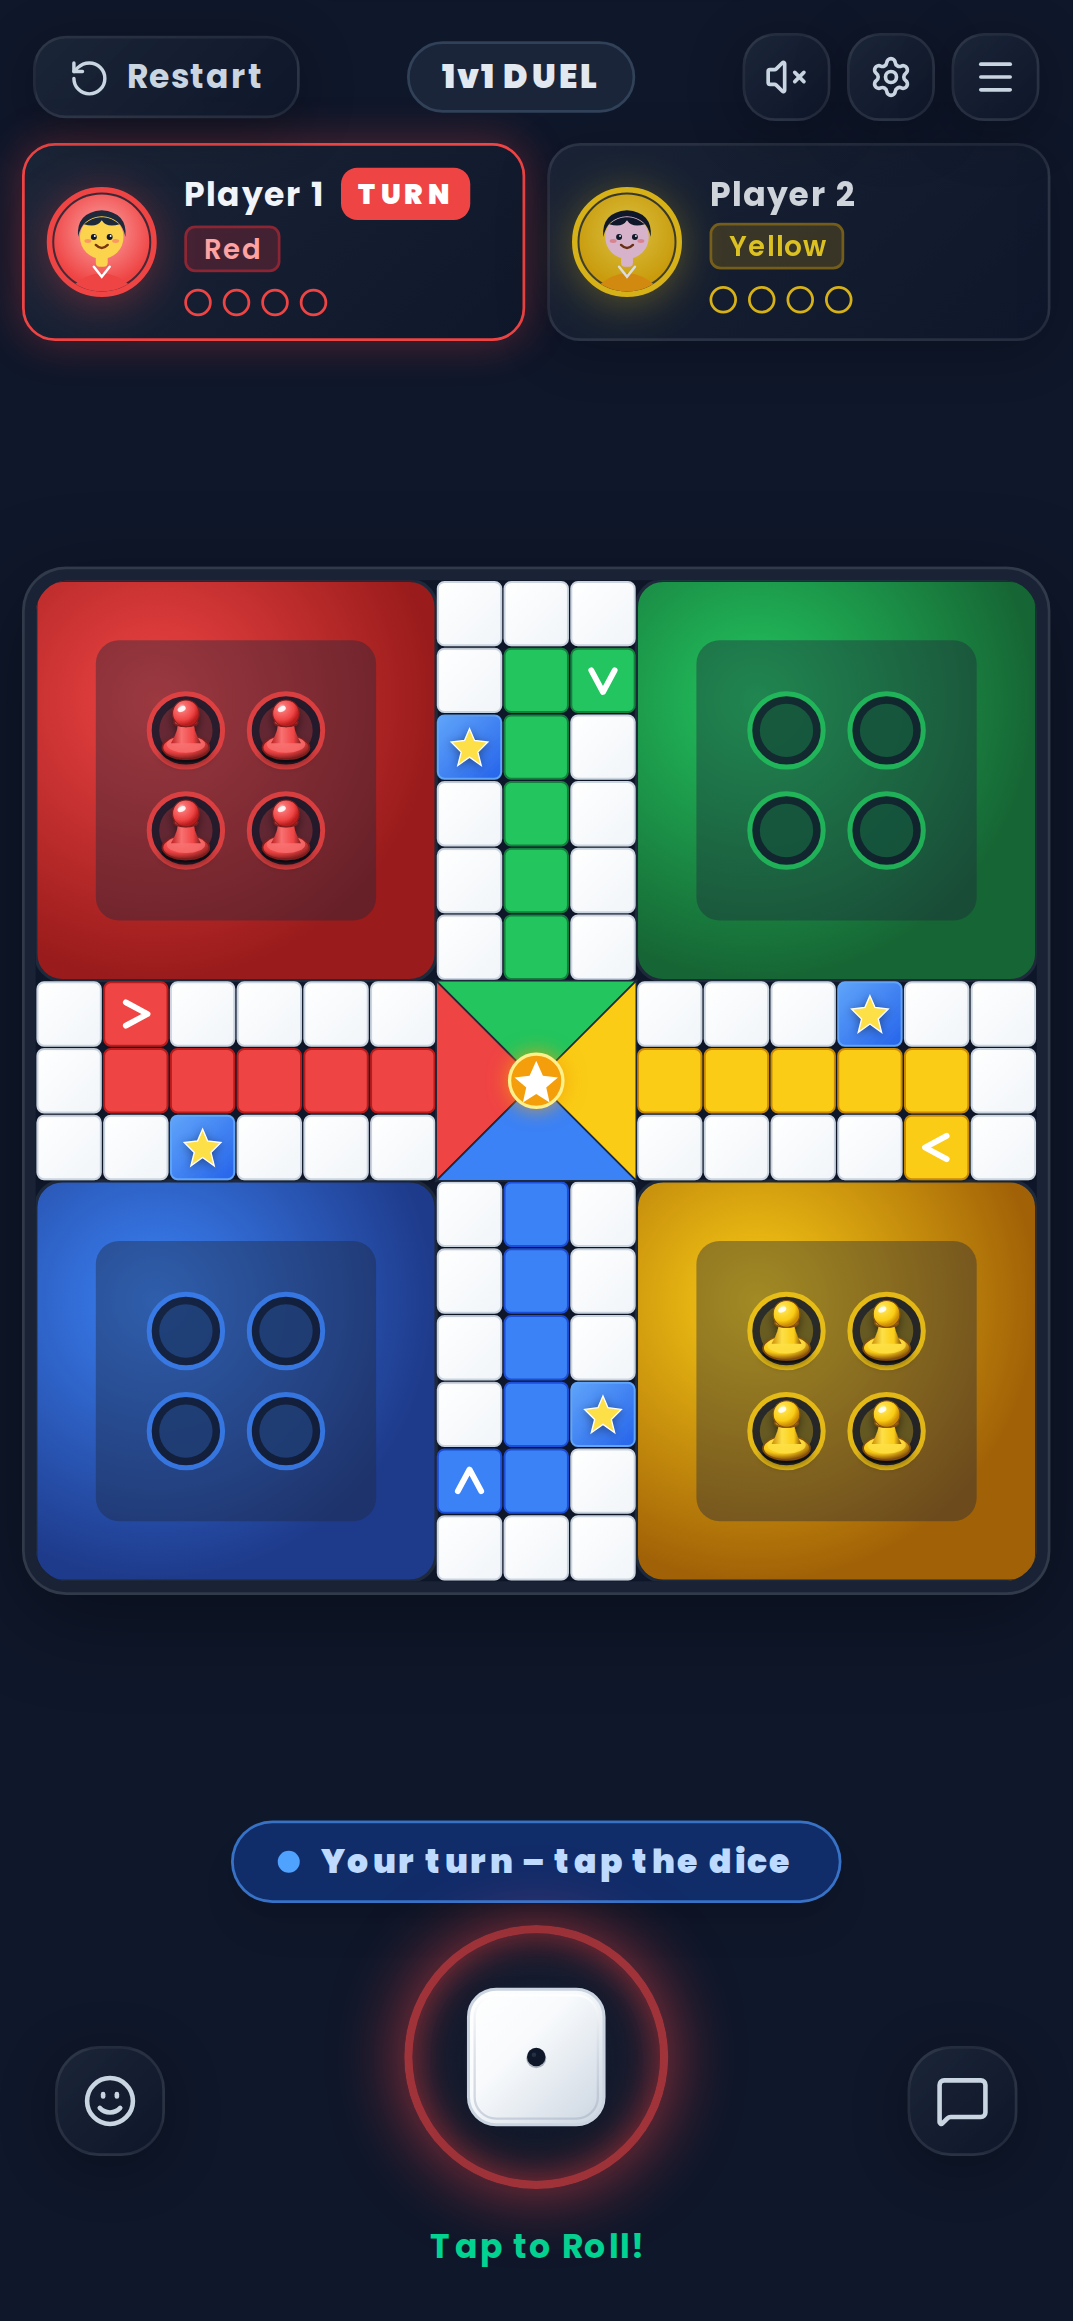
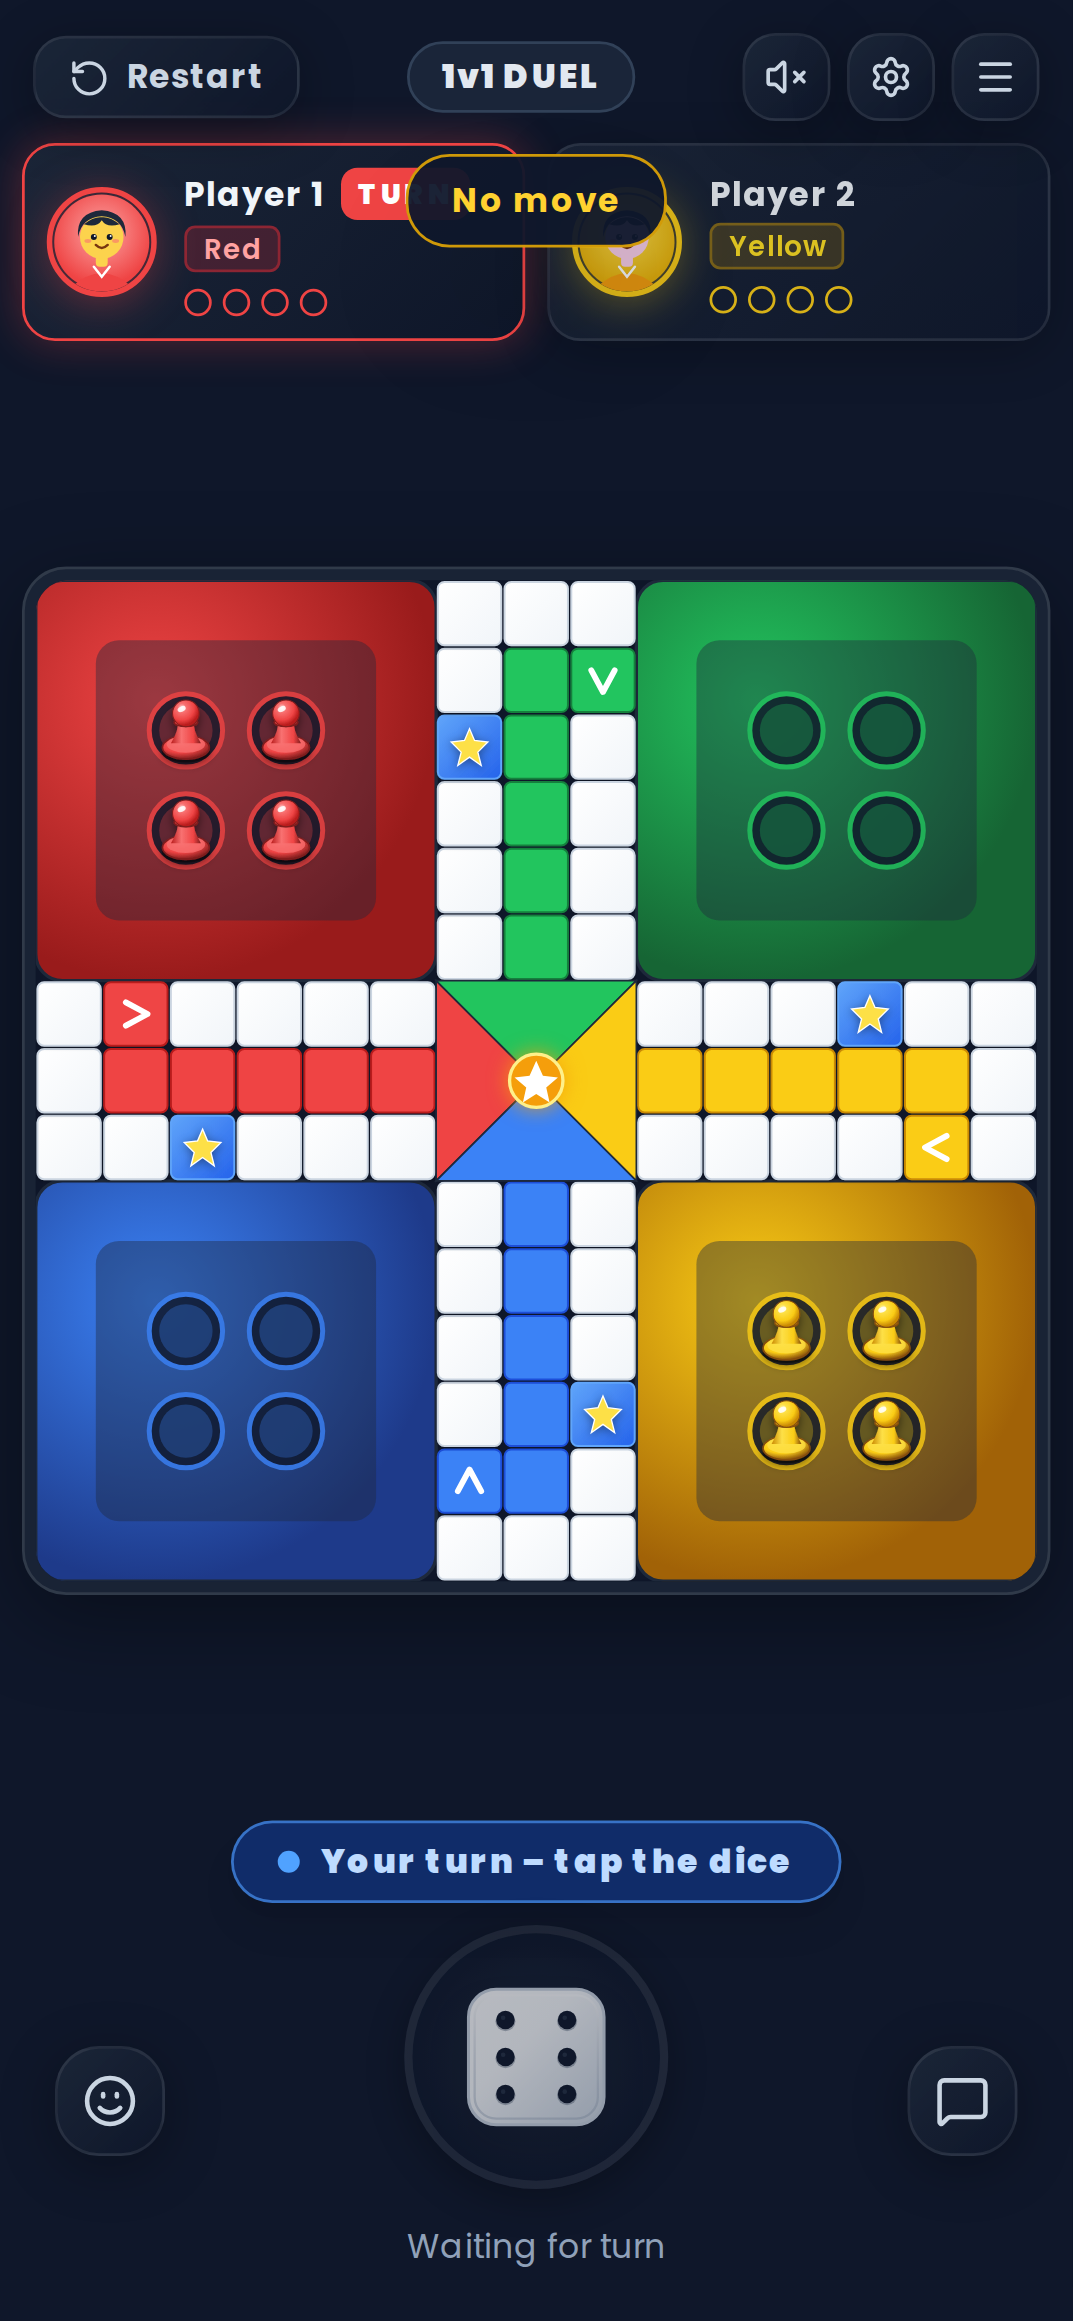
test(e2e): add Playwright dice stop check and update classic rules documentation

Changed region(s): [[0.3383, 0.8065, 0.6459, 0.9927], [0.3691, 0.062, 0.6151, 0.1241]]

diff --git a/e2e/ludo-flow.spec.ts b/e2e/ludo-flow.spec.ts
@@ -66,11 +66,15 @@ test.describe('Mobile Ludo User Flow (390x844)', () => {
     // Wait for rolling animation and settling
     await page.waitForTimeout(800);
 
-    // If legal tokens are highlighted, click the first legal token
+    // If legal tokens are highlighted and not already auto-moved, click the first legal token
     const legalToken = page.locator('.legal-token-glow').first();
-    if (await legalToken.isVisible({ timeout: 1500 }).catch(() => false)) {
-      await legalToken.click();
-      await page.waitForTimeout(500);
+    try {
+      if (await legalToken.isVisible({ timeout: 1500 })) {
+        await legalToken.click({ timeout: 2000 });
+        await page.waitForTimeout(500);
+      }
+    } catch {
+      // Auto-move may have executed the single move automatically
     }
 
     // 6. Test Restart Match dialog
@@ -120,4 +124,61 @@ test.describe('Mobile Ludo User Flow (390x844)', () => {
       expect(isScrollable).toBe(false);
     }
   });
+
+  test('Dice roll animation runs cleanly and stops with no transform/animation running after completion', async ({ page }) => {
+    await page.goto('/');
+
+    await expect(async () => {
+      await page.locator('#play-now-button').click();
+      await expect(page.getByText('Game Setup')).toBeVisible({ timeout: 2000 });
+    }).toPass({ timeout: 15000 });
+
+    await page.locator('#start-game-button').click();
+    await expect(page.locator('#dice-roll-button')).toBeVisible({ timeout: 10000 });
+
+    const diceCube = page.locator('#dice-cube');
+    await expect(diceCube).toBeVisible();
+
+    // Trigger dice roll
+    await page.locator('#dice-roll-button').click();
+
+    // Wait until tumbling finishes (~600ms tumble animation)
+    await page.waitForTimeout(800);
+
+    // Verify dice has finished tumbling and has no residual transform/animation running
+    const diceState = await page.evaluate(() => {
+      const el = document.getElementById('dice-cube');
+      if (!el) return null;
+      const computed = window.getComputedStyle(el);
+      return {
+        hasTumbleClass: el.classList.contains('dice-tumbling'),
+        animationName: computed.animationName,
+        transform: computed.transform,
+      };
+    });
+
+    expect(diceState).not.toBeNull();
+    expect(diceState?.hasTumbleClass).toBe(false);
+    expect(diceState?.animationName).toBe('none');
+    expect(diceState?.transform).toBe('none');
+
+    // Wait another 400ms during token selection / phase settling to confirm it stays completely still
+    await page.waitForTimeout(400);
+
+    const diceStateAfterPause = await page.evaluate(() => {
+      const el = document.getElementById('dice-cube');
+      if (!el) return null;
+      const computed = window.getComputedStyle(el);
+      return {
+        hasTumbleClass: el.classList.contains('dice-tumbling'),
+        animationName: computed.animationName,
+        transform: computed.transform,
+      };
+    });
+
+    expect(diceStateAfterPause?.hasTumbleClass).toBe(false);
+    expect(diceStateAfterPause?.animationName).toBe('none');
+    expect(diceStateAfterPause?.transform).toBe('none');
+  });
 });
+

diff --git a/README.md b/README.md
@@ -30,20 +30,25 @@ Developed by **[istiak.tech](https://istiak.tech)**.
 
 PlayWebLudo strictly follows classic Ludo King / Ludo Star gameplay rules:
 
-1. **Leaving Base**: A token leaves base only on rolling a **6** and enters its colored start cell.
-2. **Safe Cells**: 8 safe cells on the track (4 Start cells: Red 0, Green 13, Yellow 26, Blue 39; 4 Star cells: 8, 21, 34, 47). Tokens on safe cells cannot be captured.
-3. **Extra Roll on Six**: Rolling a 6 always awards an extra roll. The player may choose to EITHER bring a new token out of base OR move an existing token along the track/lane. Both choices are presented as distinct legal options.
-4. **Three Attempts in Base**: When a player has all active tokens in base (none on the track or in home lane), they get up to **3 roll attempts per turn** to roll a 6. If none is a 6, the turn passes. Tracked in state via `rollAttempts`.
-5. **Three Consecutive Sixes**: Rolling three 6s in a row cancels the third 6, awards no move, and passes the turn immediately.
-6. **Capture Bonus Roll**: Capturing an opponent token on any non-safe cell sends it back to its base yard AND awards the capturer an immediate bonus roll (`bonusReason: 'capture'`).
+1. **One Roll Per Turn**: Each turn starts with exactly **ONE roll**. If the roll is not a 6 and no token can legally move, the turn passes immediately to the next player (after a short "No move" message). There are no multiple roll attempts.
+2. **Leaving Base**: A token leaves base only on rolling a **6** and enters its colored start cell. All tokens in base count as one collective choice.
+3. **Roll of 6 (Classic Choice)**: Rolling a 6 always awards another roll. When tokens are in base AND tokens are outside on track/lane, the player freely chooses to EITHER bring a new token out of base OR move any outside token. Both options are legal and selectable. After the move, the same player rolls again.
+4. **Roll of 1-5 (Player Choice)**: The player may freely move ANY token that is outside base and legal (not blocked by the exact-home rule).
+5. **Three Consecutive Sixes (Full Turn Revert)**:
+   - At the start of each player's turn, a snapshot of all token positions (`turnStartSnapshot`) is recorded.
+   - On rolling a **3rd consecutive 6** in the same turn, the entire turn is cancelled: all token positions are restored to `turnStartSnapshot` (undoing moves made on the first two sixes, and returning any captured opponent tokens back to where they were). The turn passes immediately to the next player with a clear "Three 6s! Turn cancelled" message and slide-back animation.
+   - Config flag `revertCapturesOnThreeSixes` defaults to `true`.
+   - If a player rolls 6, 6 and then a non-6, the snapshot is discarded when the turn ends normally and all moves are kept.
+   - Bonus rolls from capture or reaching home do NOT reset the consecutive-six counter unless a non-6 is rolled.
+6. **Capture Bonus Roll**: Capturing an opponent token on any non-safe cell sends it back to its base yard AND awards an immediate bonus roll (`bonusReason: 'capture'`).
 7. **Home Reach Bonus Roll**: A token reaching center home awards an immediate bonus roll (`bonusReason: 'home'`).
-8. **Exact Roll to Finish**: Entering the center home requires an exact roll. If the roll is larger than needed, that token cannot move.
-9. **No Legal Move Pass**: If a roll produces no legal moves, the turn passes after a brief "No move" prompt.
+8. **Exact Roll to Finish**: Entering the center home requires an exact roll. Overshooting rolls cannot be applied to that token.
+9. **Safe Cells**: 8 safe cells on the track (4 Start cells: Red 0, Green 13, Yellow 26, Blue 39; 4 Star cells: 8, 21, 34, 47). Tokens on safe cells cannot be captured.
 10. **Blocks / Stacks**: Tokens of the same color may share any cell. Teammates never capture each other. The engine supports a `blockCannotBeCaptured` config flag with **default `false`** (classic mode allows capturing stacks unless on safe cells; setting to `true` protects 2+ stacked same-color tokens).
 11. **Equivalent-Move De-duplication**: Moves that produce identical outcomes are de-duplicated:
     - All tokens in base represent **ONE** legal choice.
     - Two same-color tokens on the same cell represent **ONE** legal choice.
-12. **Auto-Move**: When `getAutoMove(state)` finds exactly ONE legal choice, it applies automatically after ~350ms (can be toggled in Settings). When 2+ choices exist, they are highlighted with pulsing glow rings and wait for tap.
+12. **Auto-Move**: Auto-move triggers ONLY when exactly ONE distinct legal choice exists (toggled via Settings). When 2 or more distinct legal choices exist, the game always waits for the player's tap.
 13. **2v2 Cooperative Teammate Control**: In 2v2 mode, when a player has finished all 4 of their tokens, on their turn they roll and move their **teammate's** tokens. A team wins when all 8 tokens are home.
 14. **Deterministic Server Authority**: The online multiplayer server runs the identical pure TypeScript engine with server-side cryptographically secure RNG.
 
@@ -63,19 +68,20 @@ The game engine is pure TypeScript with **zero React or DOM dependencies**, maki
   - `needSixToLeaveBase: true`
   - `sixGivesExtraTurn: true`
   - `threeConsecutiveSixesLoss: true`
+  - `revertCapturesOnThreeSixes: true` (default)
   - `exactRollToFinish: true`
   - `captureGivesExtraTurn: true`
   - `homeFinishGivesExtraTurn: true`
   - `starCellsAreSafe: true`
   - `startCellsAreSafe: true`
   - `blockCannotBeCaptured: false` (default)
-  - `threeRollAttemptsInBase: true`
 - **State Properties**:
   - `currentPlayer`: Active player's color (`PlayerColor`).
   - `diceValue` / `currentRoll`: Current dice roll.
   - `phase`: `'awaiting-roll' | 'awaiting-move' | 'game_over'`.
   - `consecutiveSixes`: Counter for consecutive sixes (0..3).
-  - `rollAttempts`: Counter for base roll attempts (0..3).
+  - `turnStartSnapshot`: Token map snapshot saved at the beginning of each player's turn.
+  - `revertedTurn`: Metadata describing any turn revert after 3 consecutive sixes.
   - `bonusRoll`: `{ hasBonus: boolean, reason: 'six' | 'capture' | 'home' | null }`.
   - `lastMove`: `{ tokenId, from, to, path: number[], capturedTokenIds, reachedHome, awardedExtraTurn, bonusReason, roll }`.
 - **Deterministic RNG**: Dice rolling accepts an injectable RNG function `() => number` for deterministic simulation and automated testing.
